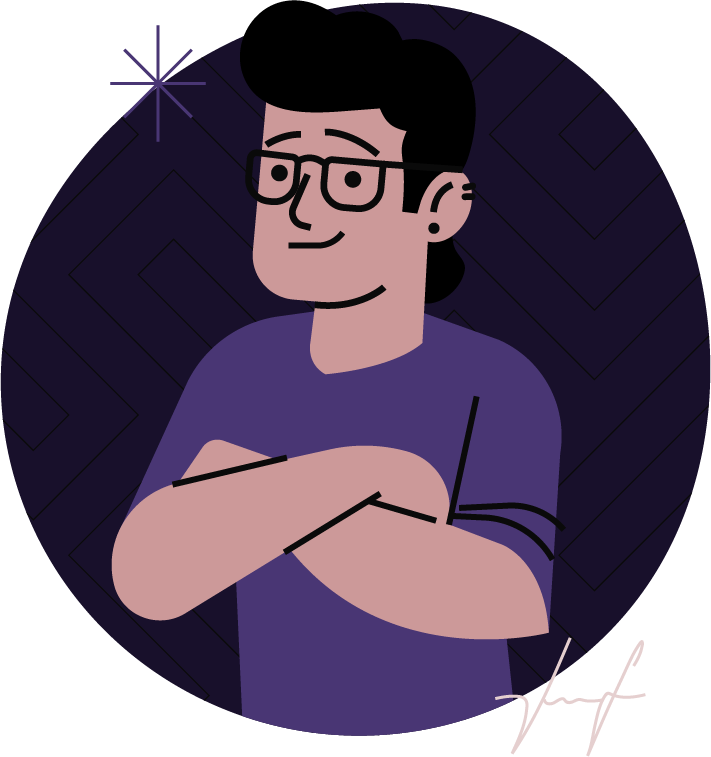
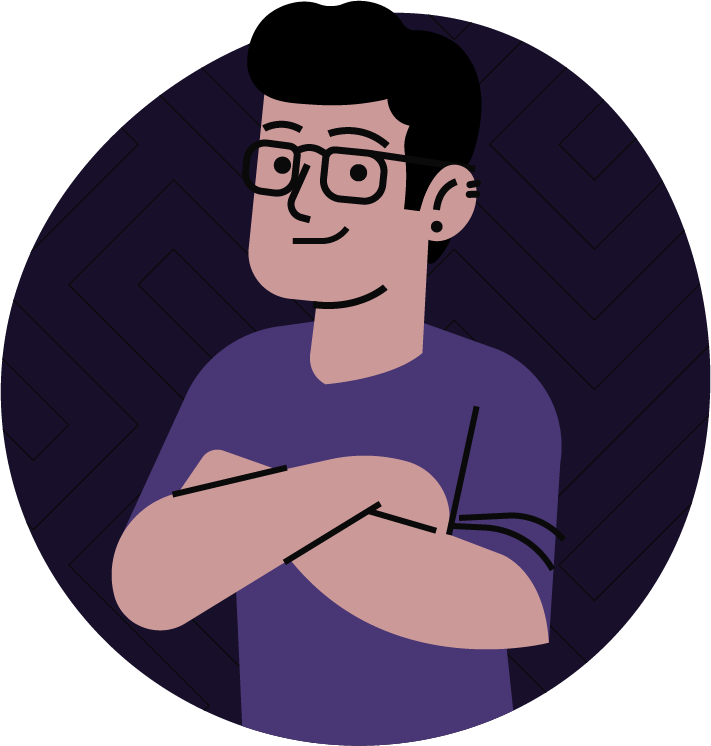
Estrutura cases e ajuste em imagens

diff --git a/index.html b/index.html
@@ -4,7 +4,7 @@
 <head>
   <meta charset="UTF-8" />
   <meta name="viewport" content="width=device-width, initial-scale=1.0" />
-  <title>Vitor Martins</title>
+  <title>Vitor Martins | Designer Gráfico</title>
 
   <link rel="preload" href="fonts/ZalandoSansExpanded-Bold.woff2" as="font" type="font/woff2" crossorigin>
   <link rel="preload" href="fonts/ZalandoSansExpanded-Medium.woff2" as="font" type="font/woff2" crossorigin>
@@ -32,10 +32,9 @@
       <div class="container">
         <div class="hero-wrap">
           <div class="hero-text">
-            <h1 class="h1-title">Desenvolvedor Front-end, UX/UI Designer e Videomaker.</h1>
-            <p class="white-text">Olá! Sou Vitor, trabalho a 9 anos com desenvolvimento de sites, criação de anúncios
-              gráficos,
-              vídeos animados, entre outros.</p>
+            <h1 class="h1-title">Olá! Sou Vitor, Designer Gráfico e esse é meu portfólio pessoal. </h1>
+            <p class="white-text">Atuo há 9 anos com comunicação, desde a criação de identidades visuais a materiais
+              para anúncios e interfaces online.</p>
             <div class="hero-buttons-wrap">
               <div class="hero-second-buttons-group">
                 <a href="#trabalhos" class="second-button-hero">Ver trabalhos</a>
@@ -62,9 +61,45 @@
       </div>
     </section>
 
-    <section id="trabalhos" class="home-section-carrossel gray-section vm-pattern vm-pattern-dark pattern-center">
+    <section id="trabalhos" class="vm-pattern vm-pattern-dark pattern-center">
+      <div class=container>
+        <div class="case-box"></div>
+        <div class="case-column-text">
+          <h2 class="red-line-lateral">Confira meus principais cases
+          </h2>
+          <p> Numquam, tenetur! Dignissimos est soluta eum, expedita error alias illo facilis iure minus, sequi consectetur autem quasi quam sint unde animi. Suscipit!</p>
+        </div>
+      </div>
+    </section>
+
+    <section class="gray-section home-section-carrossel">
+
       <div class="container center-content">
-        <h2 class="title-section">Sites desenvolvidos</h2>
+        <h2 class="title-section">Busque por peças isoladas que criei</h2>
+        <div class="red-line-spacing"></div>
+
+        <div class="wrapper-carrossel-home">
+          <button class="nav-home prev" onclick="moveCarrossel('carrossel-dg', -1)">
+            <img src="svg/arrow-left.svg" alt="Anterior">
+          </button>
+
+          <div class="track-mask">
+            <div id="carrossel-dg" class="track-carrossel">
+            </div>
+          </div>
+
+          <button class="nav-home next" onclick="moveCarrossel('carrossel-dg', 1)">
+            <img src="svg/arrow-right.svg" alt="Próximo">
+          </button>
+        </div>
+
+        <a href="pecas.html" class="cta-button">Ver todas as peças</a>
+      </div>
+    </section>
+
+    <section class="dark-section home-section-carrossel">
+      <div class="container center-content">
+        <h2 class="title-section">Veja alguns dos sites que desenvolvi</h2>
         <div class="red-line-spacing"></div>
 
         <div class="wrapper-carrossel-home">
@@ -86,40 +121,46 @@
       </div>
     </section>
 
-    <section class="home-section-carrossel">
-      <div class="container center-content">
-        <h2 class="title-section">Peças isoladas</h2>
-        <div class="red-line-spacing"></div>
-
-        <div class="wrapper-carrossel-home">
-          <button class="nav-home prev" onclick="moveCarrossel('carrossel-dg', -1)">
-            <img src="svg/arrow-left.svg" alt="Anterior">
-          </button>
-
-          <div class="track-mask">
-            <div id="carrossel-dg" class="track-carrossel">
-            </div>
-          </div>
-
-          <button class="nav-home next" onclick="moveCarrossel('carrossel-dg', 1)">
-            <img src="svg/arrow-right.svg" alt="Próximo">
-          </button>
-        </div>
-
-        <a href="pecas.html" class="cta-button">Ver todas as artes</a>
-      </div>
-    </section>
-
     <section class="dark-section vm-pattern vm-pattern-light pattern-left-50">
       <div class="container software-section">
         <div class="software-column-text">
-          <h2 class="red-line-lateral">Principais linguagens e softwares que trabalho
+          <h2 class="red-line-lateral">Principais softwares e tecnologias que trabalho
           </h2>
-          <p>Sou formado em Design Gráfico e atualmente curso Desenvolvimento Front-end. Tenho histórico como Analista
-            de Criação, Web Designer e UX/UI Designer.</p>
+          <p>Sou formado em Design Gráfico e atualmente curso UI Design. Tenho histórico como Analista
+            de Criação, Designer Gráfico e UX/UI Designer.</p>
         </div>
 
         <div class="software-column-skills">
+          <div class="software-group-skills">
+            <div class="software-item">
+              <div class="software-title">
+                <svg class="software-icon" xmlns="http://www.w3.org/2000/svg" viewBox="0 0 74.56 74.56">
+                  <polygon points="26.88 40.46 34.12 40.41 30.49 29.29 26.88 40.46" />
+                  <path
+                    d="M61.48,0H13.08C5.86,0,0,5.86,0,13.08v48.4c0,7.22,5.86,13.08,13.08,13.08h48.4c7.22,0,13.08-5.86,13.08-13.08V13.08c0-7.22-5.86-13.08-13.08-13.08ZM38.59,54.21l-1.66-5.13-12.81-.02-1.73,5.16-9.94-.03,12.8-34.45h11.17s12.44,34.45,12.44,34.45l-10.27.02ZM59.38,54.22h-9.24v-27.15h9.24v27.15ZM56.78,26.13c-1.35.45-2.76.42-4.04,0-1.82-.61-2.9-2.17-2.9-3.98,0-1.81,1.1-3.37,2.92-3.97,1.28-.42,2.67-.42,3.97-.02,1.8.56,2.92,2.09,2.97,3.85.05,1.86-1,3.49-2.91,4.13Z" />
+                </svg>
+                <h3>Illustrator</h3>
+              </div>
+              <div class="software-skill-bar">
+                <div class="software-skill-level" data-level="90%"></div>
+              </div>
+            </div>
+
+            <div class="software-item">
+              <div class="software-title">
+                <svg class="software-icon" xmlns="http://www.w3.org/2000/svg" viewBox="0 0 74.56 74.56">
+                  <path d="M29.98,27.56h-4.99v8.46h4.99c2.33,0,4.23-1.89,4.23-4.23s-1.89-4.23-4.23-4.23Z" />
+                  <path
+                    d="M61.48,0H13.08C5.86,0,0,5.86,0,13.08v48.4c0,7.22,5.86,13.08,13.08,13.08h48.4c7.23,0,13.08-5.86,13.08-13.08V13.08c0-7.22-5.86-13.08-13.08-13.08ZM31.94,44.21h-6.96v9.62h-9.49V19.37h16.44c6.86,0,12.42,5.56,12.42,12.42s-5.56,12.42-12.42,12.42ZM62.16,33.99c-2.54-.11-4.78,0-6.72.23v19.61h-9.12v-24.97s6.07-3.33,15.84-1.9v7.02Z" />
+                </svg>
+                <h3>Premiere</h3>
+              </div>
+              <div class="software-skill-bar">
+                <div class="software-skill-level" data-level="70%"></div>
+              </div>
+            </div>
+          </div>
+
           <div class="software-group-skills">
             <div class="software-item">
               <div class="software-title">
@@ -183,35 +224,6 @@
             </div>
           </div>
 
-          <div class="software-group-skills">
-            <div class="software-item">
-              <div class="software-title">
-                <svg class="software-icon" xmlns="http://www.w3.org/2000/svg" viewBox="0 0 74.56 74.56">
-                  <polygon points="26.88 40.46 34.12 40.41 30.49 29.29 26.88 40.46" />
-                  <path
-                    d="M61.48,0H13.08C5.86,0,0,5.86,0,13.08v48.4c0,7.22,5.86,13.08,13.08,13.08h48.4c7.22,0,13.08-5.86,13.08-13.08V13.08c0-7.22-5.86-13.08-13.08-13.08ZM38.59,54.21l-1.66-5.13-12.81-.02-1.73,5.16-9.94-.03,12.8-34.45h11.17s12.44,34.45,12.44,34.45l-10.27.02ZM59.38,54.22h-9.24v-27.15h9.24v27.15ZM56.78,26.13c-1.35.45-2.76.42-4.04,0-1.82-.61-2.9-2.17-2.9-3.98,0-1.81,1.1-3.37,2.92-3.97,1.28-.42,2.67-.42,3.97-.02,1.8.56,2.92,2.09,2.97,3.85.05,1.86-1,3.49-2.91,4.13Z" />
-                </svg>
-                <h3>Illustrator</h3>
-              </div>
-              <div class="software-skill-bar">
-                <div class="software-skill-level" data-level="90%"></div>
-              </div>
-            </div>
-
-            <div class="software-item">
-              <div class="software-title">
-                <svg class="software-icon" xmlns="http://www.w3.org/2000/svg" viewBox="0 0 74.56 74.56">
-                  <path d="M29.98,27.56h-4.99v8.46h4.99c2.33,0,4.23-1.89,4.23-4.23s-1.89-4.23-4.23-4.23Z" />
-                  <path
-                    d="M61.48,0H13.08C5.86,0,0,5.86,0,13.08v48.4c0,7.22,5.86,13.08,13.08,13.08h48.4c7.23,0,13.08-5.86,13.08-13.08V13.08c0-7.22-5.86-13.08-13.08-13.08ZM31.94,44.21h-6.96v9.62h-9.49V19.37h16.44c6.86,0,12.42,5.56,12.42,12.42s-5.56,12.42-12.42,12.42ZM62.16,33.99c-2.54-.11-4.78,0-6.72.23v19.61h-9.12v-24.97s6.07-3.33,15.84-1.9v7.02Z" />
-                </svg>
-                <h3>Premiere</h3>
-              </div>
-              <div class="software-skill-bar">
-                <div class="software-skill-level" data-level="70%"></div>
-              </div>
-            </div>
-          </div>
         </div>
       </div>
       <div class="software-cta">
@@ -221,7 +233,7 @@
 
     <section class="gray-section center-content">
       <div class="container">
-        <h2 class="horizontal-padding center-content">Principais experiências que pude acumular em minha carreira
+        <h2 class="horizontal-padding center-content">Experiência que acumulei em minha carreira profissional
         </h2>
         <div class="red-line-spacing"></div>
 
@@ -229,21 +241,22 @@
 
           <div class="career-card">
             <div class="career-age">
-              <span class="age-number">6</span>
+              <span class="age-number">9</span>
               <span class="age-lable">anos</span>
             </div>
             <div class="career-text">
-              <h3 class="black-text">Experiência em agência de publicidade, desde estagiário a analista de criação.</h3>
+              <h3 class="black-text">Atuando na área de comunicação, desenvolvendo materiais online e offline.</h3>
             </div>
           </div>
 
           <div class="career-card">
             <div class="career-age">
-              <span class="age-number">4</span>
+              <span class="age-number">6</span>
               <span class="age-lable">anos</span>
             </div>
             <div class="career-text">
-              <h3 class="black-text">Atuando como designer gráfico/web e videomaker autônomo para empresas.</h3>
+              <h3 class="black-text">Experiência com agência de publicidade, desde estagiário a analista de criação.
+              </h3>
             </div>
           </div>
 
@@ -253,7 +266,7 @@
               <span class="age-lable">anos</span>
             </div>
             <div class="career-text">
-              <h3 class="black-text">Trabalhando com UX/UI design em uma equipe de marketing interno.</h3>
+              <h3 class="black-text">Trabalhando com UI Design em uma equipe de marketing interno.</h3>
             </div>
           </div>
 

diff --git a/css/global.css b/css/global.css
@@ -114,6 +114,7 @@ html {
   --white-color: #f0ebff;
   --black-color: #0a0a0a;
   --gray-color: #303030;
+  --light-gray-color: #606060;
   --light-purple-color: #493674;
   --dark-purple-color: #18102b;
   --red-color: #722dff;
@@ -317,7 +318,7 @@ h4 {
 }
 
 p {
-  color: var(--gray-color);
+  color: var(--light-gray-color);
   font-size: var(--text-font-size);
   font-weight: var(--text-weight);
   line-height: 1.4;
@@ -325,7 +326,7 @@ p {
 
 a {
   text-decoration: none;
-  color: var(--gray-color);
+  color: var(--light-gray-color);
   font-size: var(--text-font-size);
   font-weight: var(--text-weight);
   line-height: 1.4;

diff --git a/pecas.html b/pecas.html
@@ -32,7 +32,7 @@
             </div>
         </section>
 
-        <section class="lista-portfolio">
+        <section class="lista-portfolio gray-section">
             <div class="container">
                 <div class="filtros-container small-bottom-margin">
                     <button class="btn-filtro active" data-filter="all">Todos</button>

diff --git a/css/hero.css b/css/hero.css
@@ -149,7 +149,7 @@ a.cta-button-hero:hover {
     }
 
     .hero-text {
-        min-width: 50%;
+        min-width: 47%;
         align-items: flex-start;
         text-align: left;
     }
